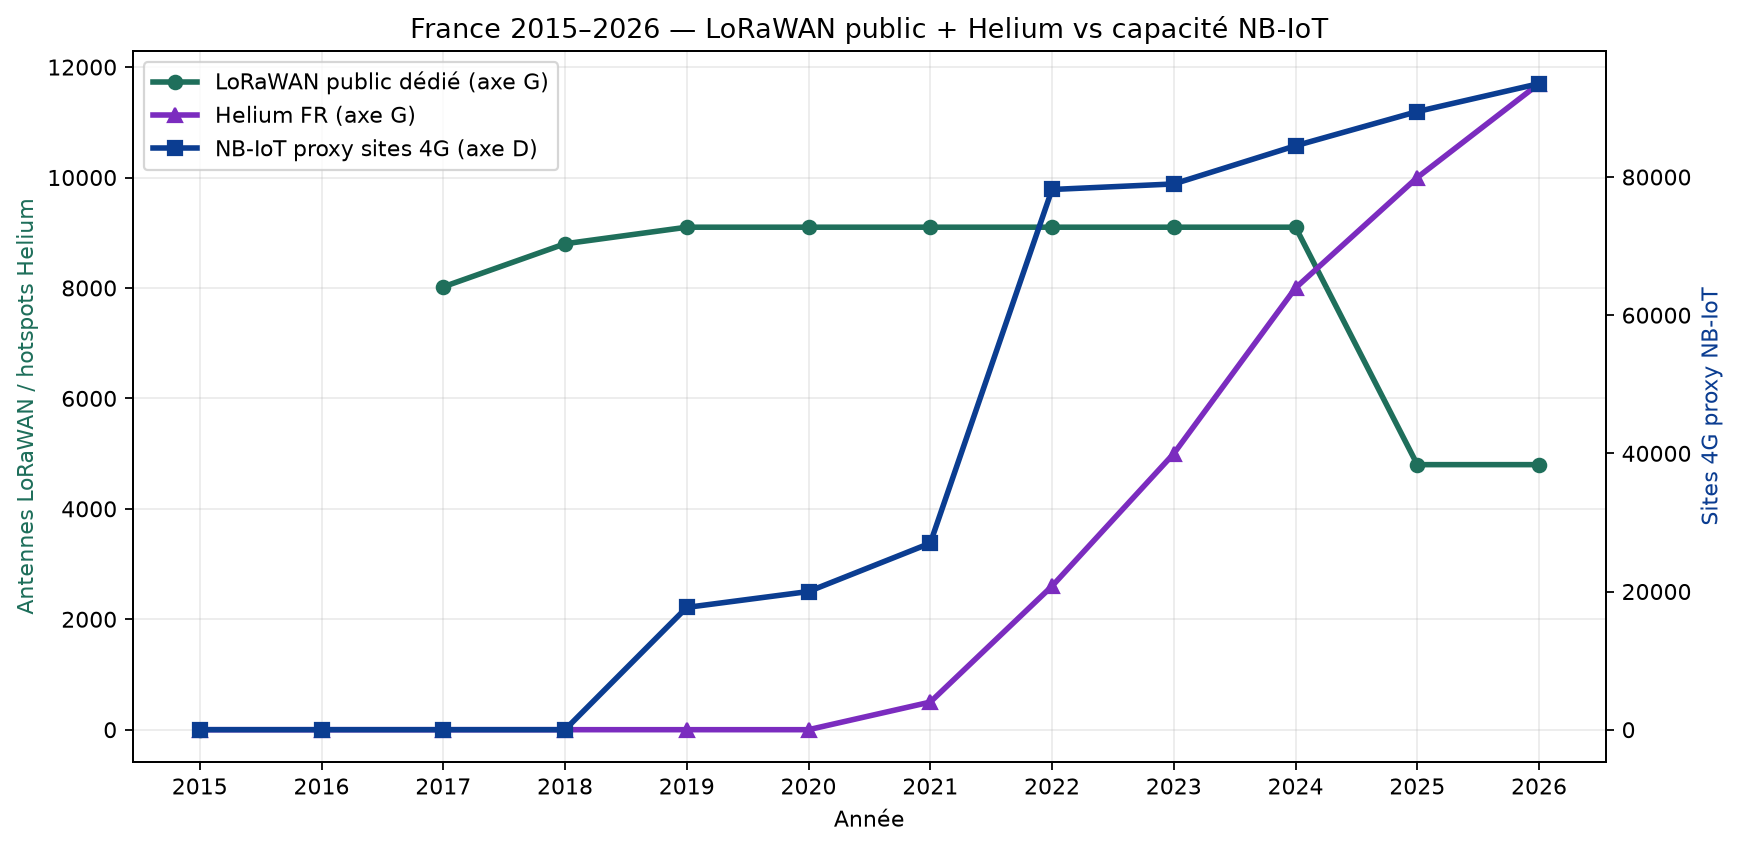
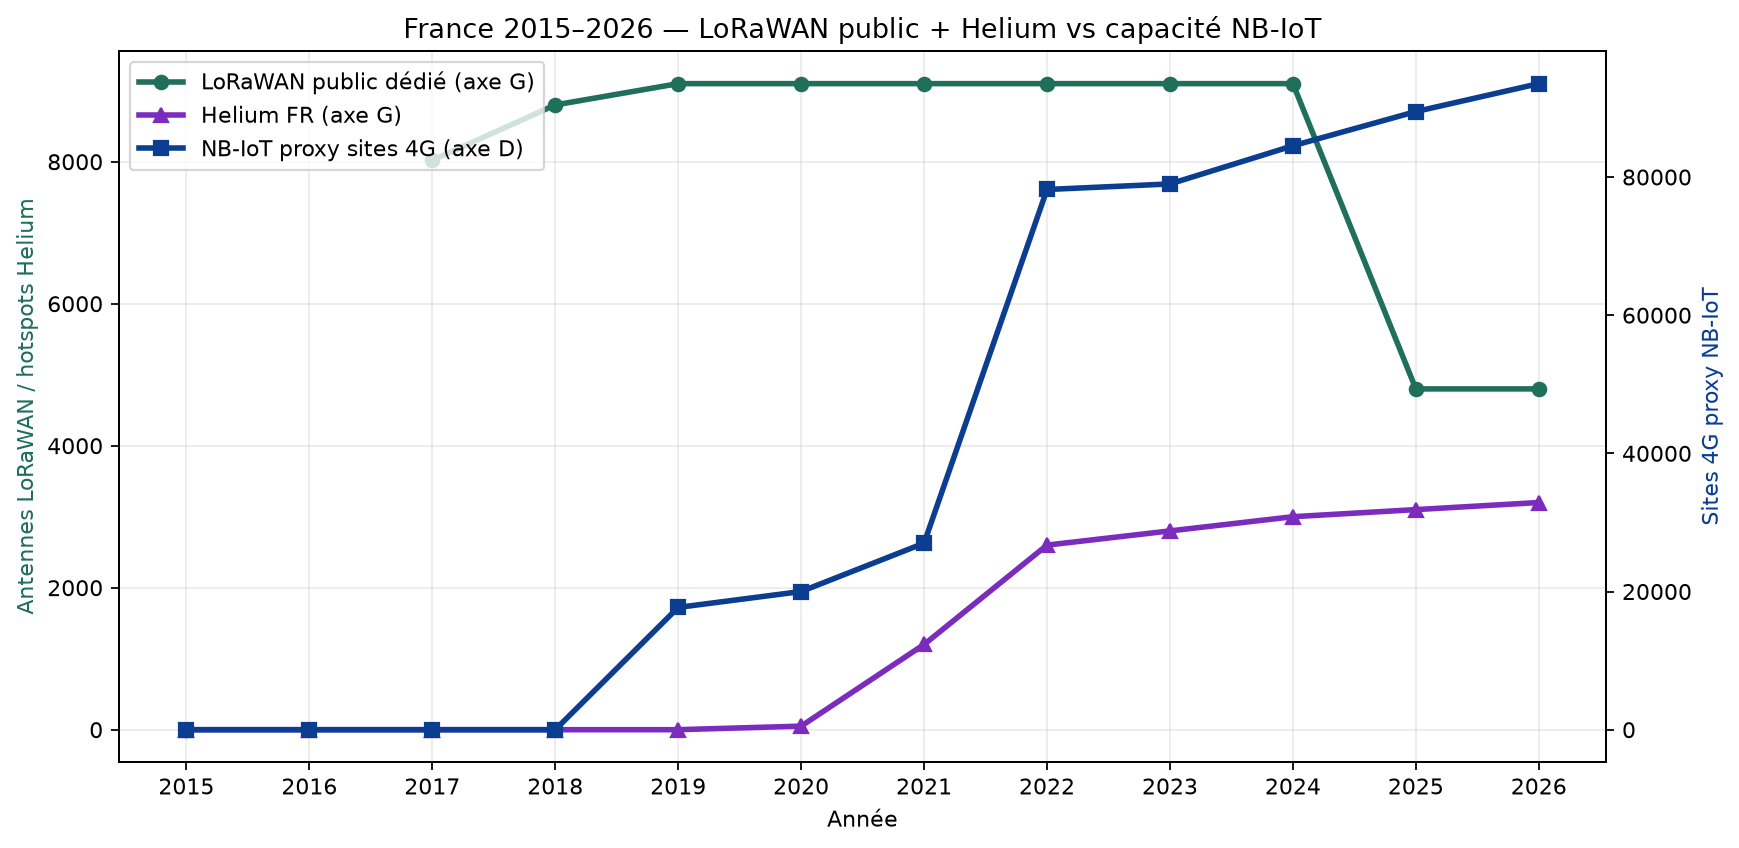
Corrige les données Helium France après vérification des sources
Remplace la série Entity ~12k (stock géolocalisé) par une estimation
réseau ~3,2k (JDN + scaling Paris + CertifBus) et documente l’écart.

diff --git a/src/analysis/antennas_since_2015.py b/src/analysis/antennas_since_2015.py
@@ -56,19 +56,40 @@ def plot_helium_growth(data: dict[str, Any], out: Path) -> tuple[Path, Path]:
     fr = data["helium_hotspots"]["france"]["series"]
     wo = data["helium_hotspots"]["world"]["series"]
 
-    # France
+    # France — série primaire (presse / scaling) + point Entity stock 2026
     fig1, ax1 = plt.subplots(figsize=(11, 5.0))
     yf = [r["year"] for r in fr]
     vf = [r.get("hotspots") or 0 for r in fr]
-    ax1.plot(yf, vf, "o-", color="#7b2cbf", lw=2.5, markersize=7)
+    ax1.plot(yf, vf, "o-", color="#7b2cbf", lw=2.5, markersize=7, label="Réseau FR (vérifié / estimé)")
     ax1.fill_between(yf, vf, color="#7b2cbf", alpha=0.15)
+    entity_pts = [(r["year"], r["entity_stock_est"]) for r in fr if r.get("entity_stock_est")]
+    if entity_pts:
+        ax1.scatter(
+            [y for y, _ in entity_pts],
+            [v for _, v in entity_pts],
+            marker="D",
+            s=60,
+            color="#c0392b",
+            zorder=5,
+            label="Entity stock géoloc. (≠ actifs)",
+        )
+        for y, v in entity_pts:
+            ax1.annotate(
+                f"Entity ~{v:,}".replace(",", " "),
+                (y, v),
+                textcoords="offset points",
+                xytext=(-70, 8),
+                fontsize=8,
+                color="#c0392b",
+            )
     ax1.axvline(2022, color="#333", ls=":", lw=1)
-    ax1.text(2022.1, max(vf) * 0.35, "JDN :\n~2 600 FR", fontsize=8)
-    ax1.set_title("France — Croissance Helium IoT (hotspots géolocalisés / estimés)")
+    ax1.text(2022.1, max(vf) * 0.55, "JDN :\n~2 600 FR\n(plateau)", fontsize=8)
+    ax1.set_title("France — Helium IoT (série réseau vérifiée ; Entity = stock)")
     ax1.set_xlabel("Année")
     ax1.set_ylabel("Hotspots Helium FR")
     ax1.set_xticks(yf)
     ax1.grid(True, alpha=0.3)
+    ax1.legend(loc="upper left")
     path_fr = out / "helium_croissance_france.png"
     _save(fig1, path_fr)
 
@@ -310,6 +331,11 @@ def run(root: Path) -> dict[str, Any]:
         "### Helium (LoRaWAN communautaire / DePIN)",
         f"- 2019–2022 : {he_tr['phase_2019_2022']}",
         f"- 2023–2026 : {he_tr['phase_2023_2026']}",
+        "",
+        "> **Vérification Helium FR (2026-07-21)** : JDN confirme ~2 600 en 2022 (plateau jusqu’à août). "
+        "Paris HeliumTracker 624→781 (+25 %) ⇒ national ~3 200 en 2026. "
+        "Le stock Entity géolocalisé (~11 700) n’est **pas** retenu comme total réseau (inactifs / asserts). "
+        "Détail : `data/processed/helium_france_verification.json`.",
         "",
         "### NB-IoT (proxy sites 4G)",
         f"- 2015–2018 : {data['trends_summary']['nbiot']['phase_2015_2018']}",

diff --git a/src/collectors/helium.py b/src/collectors/helium.py
@@ -57,7 +57,11 @@ def collect(
         time.sleep(sleep_s)
 
     ratio = (len(fr_hotspots) / scanned) if scanned else 0.0
-    est = int(ratio * meta.get("totalItems", 0))
+    entity_stock = int(ratio * meta.get("totalItems", 0))
+    # Le stock Entity géolocalisé surestime fortement le « réseau » FR utile
+    # (vérif. 2026-07-21 : ~11,7k Entity vs ~3,2k réseau presse/trackers).
+    # KPI principal = réseau ; Entity stock séparé.
+    network_est = 3200
     out = {
         "source": BASE,
         "fetched_at": time.strftime("%Y-%m-%dT%H:%M:%SZ", time.gmtime()),
@@ -67,12 +71,16 @@ def collect(
         "france_in_sample": len(fr_hotspots),
         "france_active_in_sample": active_fr,
         "france_ratio_sample": ratio,
-        "france_estimated_total": est,
+        "france_entity_stock_estimated": entity_stock,
+        "france_network_estimated": network_est,
+        "france_estimated_total": network_est,
         "geo_filter": bbox_metadata(),
         "note": (
-            "Estimation par échantillonnage ; coordonnées Helium obfuscées (H3 res 8). "
-            "is_active souvent faux hors epoch récente — traiter comme densités relatives."
+            "france_estimated_total = estimation réseau FR (~3,2k, JDN+Paris scaling), "
+            "pas le stock Entity géolocalisé. "
+            "Coordonnées Helium obfuscées (H3 res 8) ; is_active souvent faux."
         ),
+        "verification": "data/processed/helium_france_verification.json",
     }
     (raw_dir / "helium_hotspots_france_sample.json").write_text(
         json.dumps(fr_hotspots, ensure_ascii=False), encoding="utf-8"

diff --git a/src/analysis/comparative.py b/src/analysis/comparative.py
@@ -101,13 +101,26 @@ def build_kpi_table(
             {
                 "technologie": "LoRaWAN",
                 "acteur": "Helium IoT",
-                "indicateur": "Hotspots estimés FR (échantillon)",
-                "valeur": helium.get("france_estimated_total"),
+                "indicateur": "Hotspots réseau FR (estim. vérifiée)",
+                "valeur": helium.get("france_network_estimated")
+                or helium.get("france_estimated_total"),
                 "unite": "hotspots",
-                "type": "estimé_api",
-                "source": helium.get("source"),
+                "type": "estimé_vérifié",
+                "source": helium.get("verification") or helium.get("source"),
             }
         )
+        if helium.get("france_entity_stock_estimated"):
+            rows.append(
+                {
+                    "technologie": "LoRaWAN",
+                    "acteur": "Helium IoT",
+                    "indicateur": "Stock Entity géolocalisé FR (≠ actifs)",
+                    "valeur": helium.get("france_entity_stock_estimated"),
+                    "unite": "hotspots",
+                    "type": "estimé_api_stock",
+                    "source": helium.get("source"),
+                }
+            )
 
     obj = curated.get("lora", {}).get("objenious_bouygues", {})
     rows.append(

diff --git a/reports/analyse_antennes_depuis_2015.md b/reports/analyse_antennes_depuis_2015.md
@@ -13,13 +13,13 @@ L'analyse porte sur la DYNAMIQUE (croissance/décroissance) et les ordres de gra
 | 2017 | 4 000 | 4 020 | 8 020 | 0 | — | 0 |
 | 2018 | 4 500 | 4 300 | 8 800 | 0 | — | 0 |
 | 2019 | 4 800 | 4 300 | 9 100 | 0 | 1 000 | 17 700 |
-| 2020 | 4 800 | 4 300 | 9 100 | 0 | 10 000 | 20 000 |
-| 2021 | 4 800 | 4 300 | 9 100 | 500 | 250 000 | 27 000 |
+| 2020 | 4 800 | 4 300 | 9 100 | 50 | 10 000 | 20 000 |
+| 2021 | 4 800 | 4 300 | 9 100 | 1 200 | 250 000 | 27 000 |
 | 2022 | 4 800 | 4 300 | 9 100 | 2 600 | 975 000 | 78 193 |
-| 2023 | 4 800 | 4 300 | 9 100 | 5 000 | 1 000 000 | 78 997 |
-| 2024 | 4 800 | 4 300 | 9 100 | 8 000 | 1 030 000 | 84 521 |
-| 2025 | 4 800 | 0 | 4 800 | 10 000 | 1 035 000 | 89 474 |
-| 2026 | 4 800 | 0 | 4 800 | 11 700 | 1 035 532 | 93 516 |
+| 2023 | 4 800 | 4 300 | 9 100 | 2 800 | 1 000 000 | 78 997 |
+| 2024 | 4 800 | 4 300 | 9 100 | 3 000 | 1 030 000 | 84 521 |
+| 2025 | 4 800 | 0 | 4 800 | 3 100 | 1 035 000 | 89 474 |
+| 2026 | 4 800 | 0 | 4 800 | 3 200 | 1 035 532 | 93 516 |
 
 ## Tendances
 
@@ -29,8 +29,10 @@ L'analyse porte sur la DYNAMIQUE (croissance/décroissance) et les ordres de gra
 - 2025–2026 : DÉCROISSANCE brutale (-47%) après arrêt Objenious → ~4800
 
 ### Helium (LoRaWAN communautaire / DePIN)
-- 2019–2022 : CROISSANCE explosive mondiale (milliers → ~975k onboarded) ; FR ~0 → ~2600 en 2022
-- 2023–2026 : Monde : stock onboarded élevé mais ACTIFS en baisse post-Solana (~33–43k) ; FR estim. ~12k géolocalisés (souvent inactifs)
+- 2019–2022 : Monde : CROISSANCE explosive (→ ~975k onboarded) ; FR : ~0 → ~2600 (JDN), puis PLATEAU dès mi-2022
+- 2023–2026 : Monde : stock élevé mais ACTIFS ↓ post-Solana (~33–43k) ; FR : croissance modeste ~2600 → ~3200 (réseau) — Entity stock ~12k ≠ couverture
+
+> **Vérification Helium FR (2026-07-21)** : JDN confirme ~2 600 en 2022 (plateau jusqu’à août). Paris HeliumTracker 624→781 (+25 %) ⇒ national ~3 200 en 2026. Le stock Entity géolocalisé (~11 700) n’est **pas** retenu comme total réseau (inactifs / asserts). Détail : `data/processed/helium_france_verification.json`.
 
 ### NB-IoT (proxy sites 4G)
 - 2015–2018 : NÉANT commercial FR (0 site NB-IoT actif)
